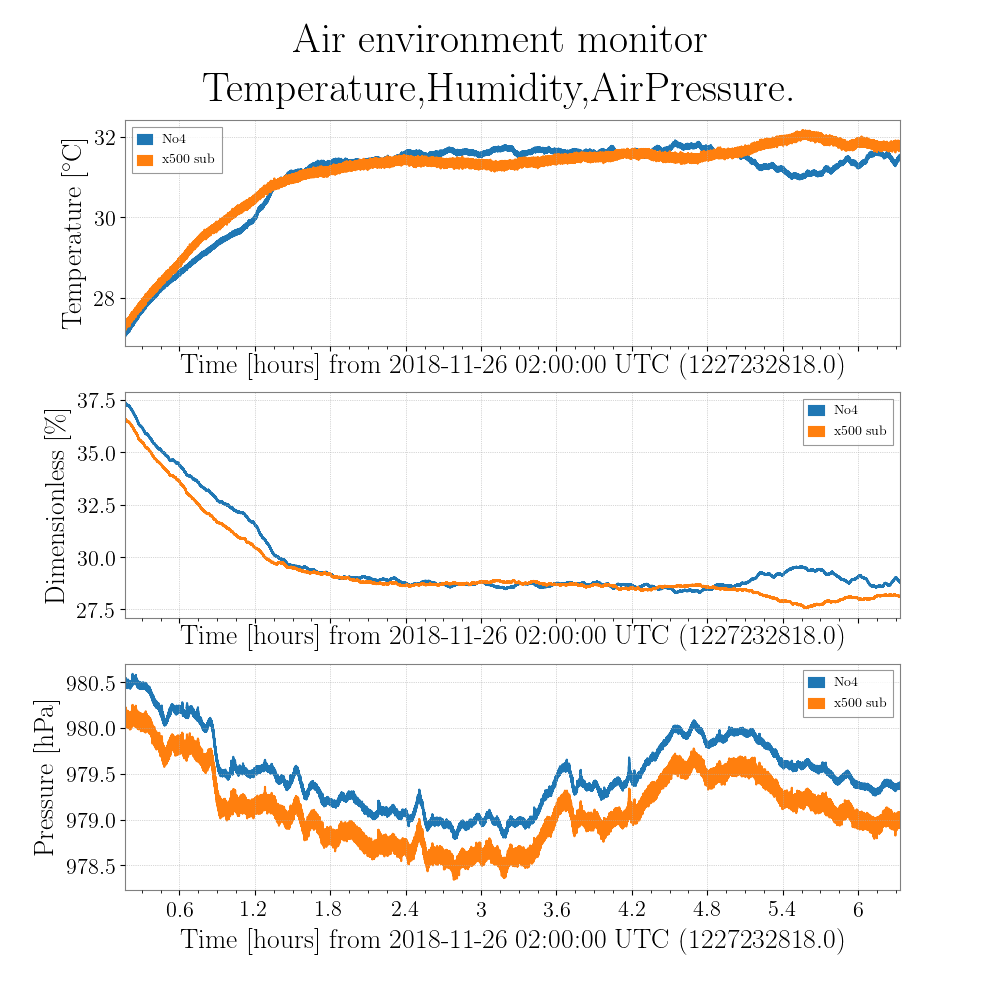
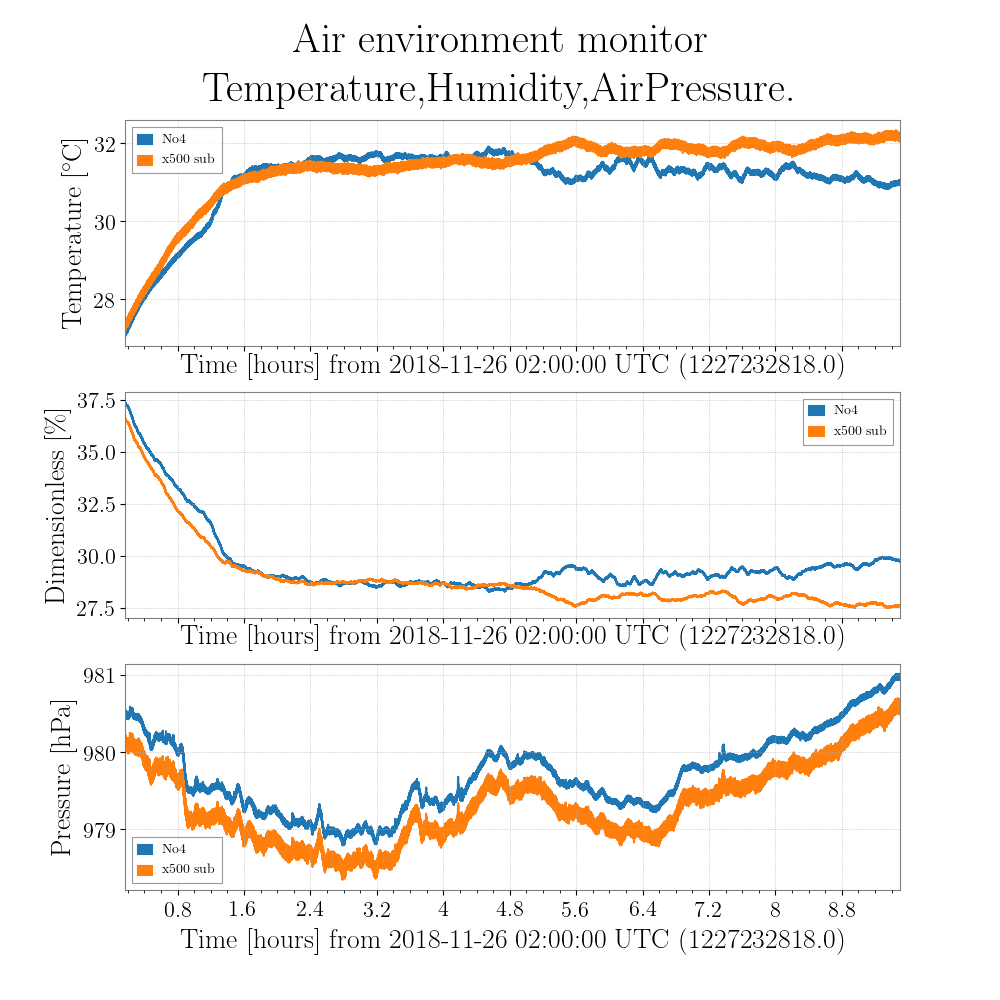
Back

diff --git a/meteo/check_iy0.py b/meteo/check_iy0.py
@@ -1,3 +1,5 @@
+#
+#! coding:utf-8
 import warnings
 import numpy as np
 import matplotlib
@@ -41,12 +43,14 @@ def v2baro(v,**kwargs):
 
 
 start = tconvert('Nov 26 2018 11:10:00 JST')
-end = tconvert('Nov 26 2018 17:20:00 JST')
+end = tconvert('Nov 26 2018 20:30:00 JST')
 
-chname_wether = 'K1:PEM-IY0_SENSOR*_INMON'
+chname_wether = 'K1:PEM-IY0_SENSOR5_INMON*'
 chlst = ChannelList.query_nds2([chname_wether],host='10.68.10.121',port=8088)
 chlst = [ ch.name for ch in chlst]
+print chlst
 data = TimeSeriesDict.fetch(chlst,start,end,host='10.68.10.121',port=8088,verbose=True,pad=np.nan)
+print data
 no4_temp = v2temp(data['K1:PEM-IY0_SENSOR5_INMON']*c2V)
 no4_humd = v2humd(data['K1:PEM-IY0_SENSOR6_INMON']*c2V)
 no4_baro = v2baro(data['K1:PEM-IY0_SENSOR7_INMON']*c2V)
